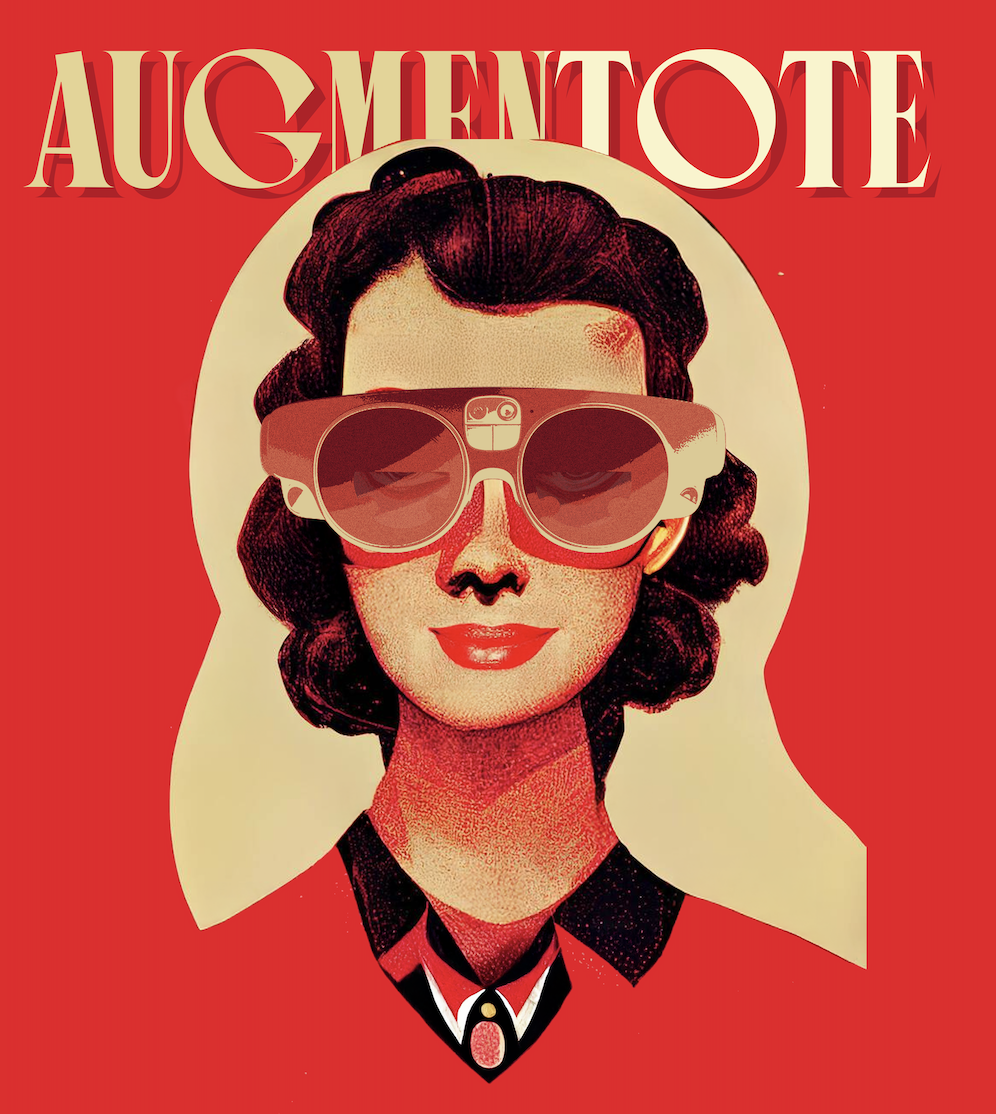
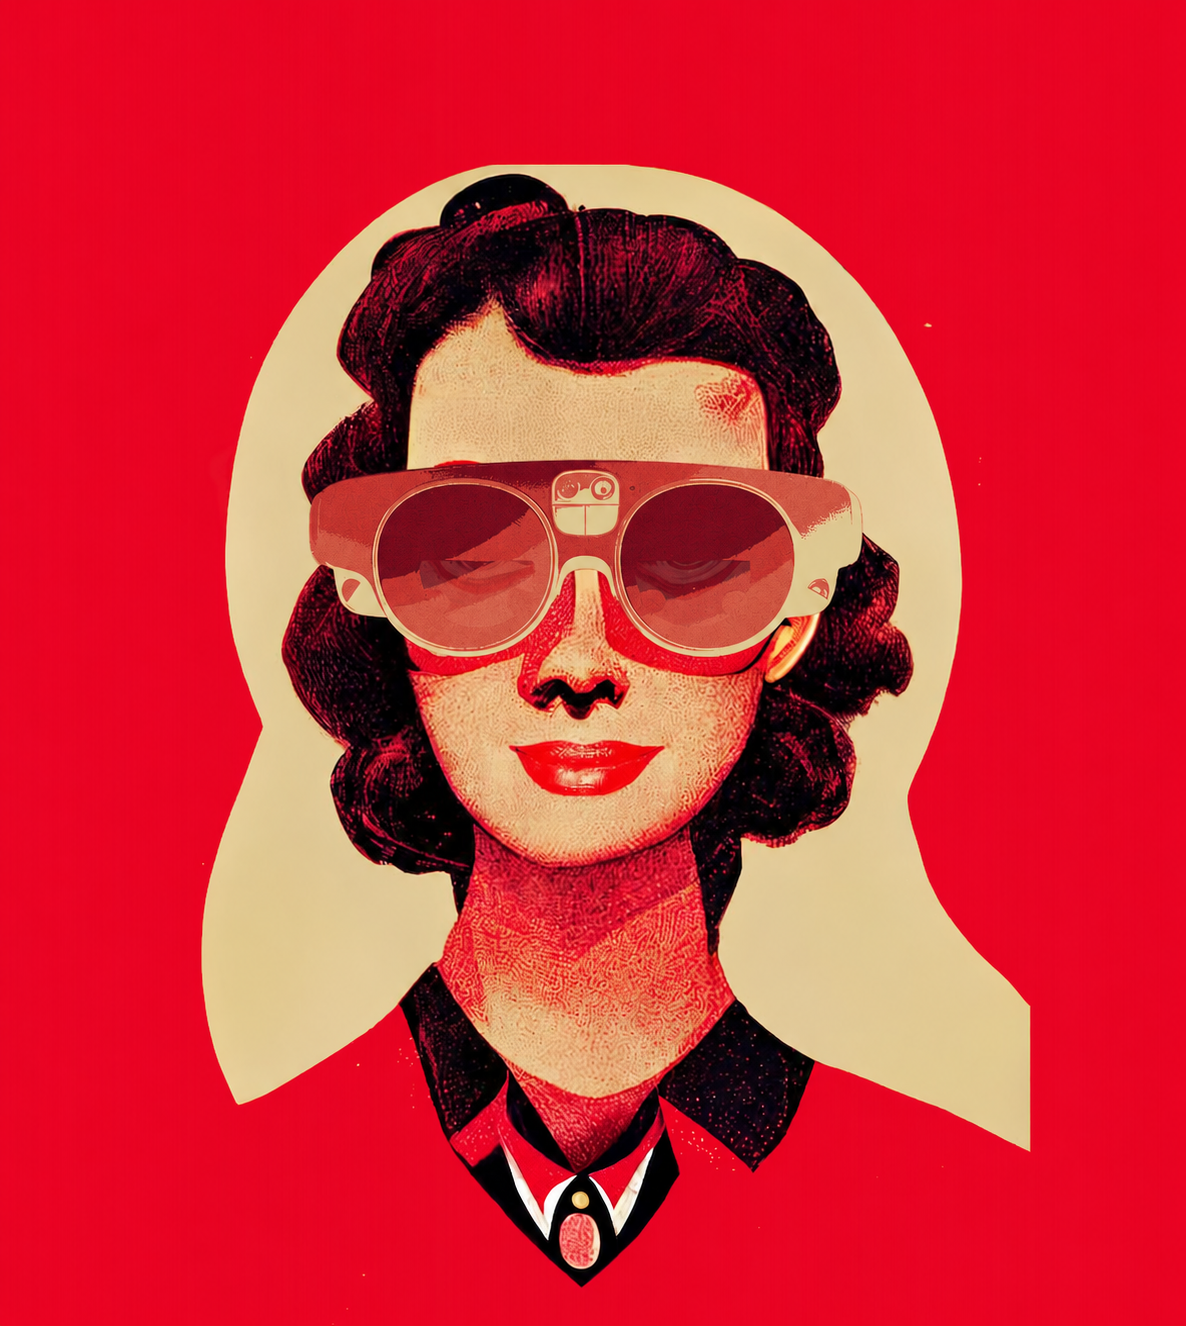
h

diff --git a/augmenTote.html b/augmenTote.html
@@ -228,14 +228,12 @@
           support flow.</p>
       </div>
 
-      <img class="project-feature-image" data-no-figure-caption
-        src="Images/AugmenTote/Midreview%20Presentation-images-36.jpg" alt="AugmenTote presentation image 37">
-      <img class="project-feature-image" data-no-figure-caption
-        src="Images/AugmenTote/Midreview%20Presentation-images-37.jpg" alt="AugmenTote presentation image 38">
-      <img class="project-feature-image" data-no-figure-caption
-        src="Images/AugmenTote/Midreview%20Presentation-images-38.jpg" alt="AugmenTote presentation image 39">
-      <img class="project-feature-image" data-no-figure-caption
-        src="Images/AugmenTote/Midreview%20Presentation-images-39.jpg" alt="AugmenTote presentation image 40">
+      <img class="project-feature-image" src="Images/AugmenTote/Midreview%20Presentation-images-36.jpg"
+        alt="PeccAI Capture"><br><BR>
+      <img class="project-feature-image" src="Images/AugmenTote/Midreview%20Presentation-images-38.jpg"
+        alt="PEccAI workflow breakdown">br><BR>
+      <img class="project-feature-image" src="Images/AugmenTote/Midreview%20Presentation-images-39.jpg"
+        alt="Help view journey example">
 
     </section>
 
@@ -248,8 +246,8 @@
       <p>The proposal considers health, social interaction, entertainment, and visible progress as part of the work
         experience—not as separate systems layered on top of it.</p>
 
-      <img class="project-feature-image" 
-        src="Images/AugmenTote/Midreview%20Presentation-images-44.jpg" alt="Feedback farmed from the truth fountain of Reddit">
+      <img class="project-feature-image" src="Images/AugmenTote/Midreview%20Presentation-images-44.jpg"
+        alt="Feedback farmed from the truth fountain of Reddit">
       <img class="project-feature-image" data-no-figure-caption
         src="Images/AugmenTote/Midreview%20Presentation-images-45.jpg" alt="AugmenTote presentation image 46">
 
@@ -300,51 +298,79 @@
       <img class="project-feature-image" data-no-figure-caption
         src="Images/AugmenTote/Midreview%20Presentation-images-58.jpg" alt="AugmenTote presentation image 59">
 
-      </section>
+    </section>
 
-     
+
 
     </section>
     <div class="project-section-band">
       <p class="project-kicker">Results</p>
       <h2>VALIDATION STUDY</h2>
     </div>
-    <h3>Procedure</h3>
-    <p>Direct wellness features include visible progress, music, hydration prompts, and scheduled stretch or rest
-      suggestions. Associate feedback in the study specifically called for short recurring stretch breaks during
-      long standing shifts.</p>
-    <br><Br>
-    <h3>Results</h3>
-    <p>Direct wellness features include visible progress, music, hydration prompts, and scheduled stretch or rest
-      suggestions. Associate feedback in the study specifically called for short recurring stretch breaks during
-      long standing shifts.</p>
+    <section class="project-copy-section">
+      <h3>Procedure</h3>
+      <p>The study used an A/B testing format to compare a stationary screen-based workflow with an augmented-reality
+        workflow. Seven participants completed the same task in both conditions: identify and pick an item, determine
+        its destination, and place it in the correct rebin-wall slot. In the screen condition, participants had to
+        interpret and remember information displayed away from the rebin wall. In the AR condition, spatial arrows and
+        destination indicators guided them toward the correct slot within their field of view.<br><BR>
+
+        The study recorded completion times, placement errors, participant movement, and qualitative feedback. Errors
+        such as approaching the wrong side of the wall or selecting the wrong slot were documented because they extended
+        task time. XSens motion tracking and kinematic data were also collected to compare physical movement between
+        conditions. After testing, participants discussed each interface’s clarity, difficulty, cognitive demands, and
+        comfort, as well as potential improvements to the visual guidance and Magic Leap headset.
+      </p>
+      <br><Br>
+      <h3>Results</h3>
+      <p>As shown in the figure below, performance varied between participants and was affected by errors such as moving
+        toward
+        the wrong side of the wall or selecting the wrong slot. Overall, however, participants consistently described
+        the AR condition as easier to follow and less mentally demanding. The spatial arrow and large destination
+        indicator reduced the need to remember directions, count rows, or repeatedly reference a separate
+        screen.<br><Br>
+
+        Participant feedback also identified opportunities for refinement. Several participants wanted directional
+        information earlier so they could anticipate where to turn, while others suggested smoother arrows, color
+        changes, haptic feedback, and a hybrid approach combining screen and AR guidance. Although the Magic Leap was
+        generally considered engaging and effective, its weight, brightness, limited peripheral vision, and
+        compatibility with glasses affected comfort. These findings suggest that mixed reality can improve clarity,
+        efficiency, and confidence during the pick workflow, but its guidance must remain timely, visually simple, and
+        physically comfortable.</p>
+    </section>
     <img class="project-feature-image" src="Images/AugmenTote/pick duration by hand.png"
       alt="Violin Chart Demonstrating a comparison of the conditions based on time it took to pick the item and place it in the rebin wall slot">
-    
-       <section class="project-feedback-section" aria-labelledby="participantFeedbackHeading">
 
-        <h3>Participant feedback</h3>
-      
-        <div class="project-feedback-carousel" data-feedback-carousel aria-roledescription="carousel" aria-label="Participant feedback">
-          <div class="project-feedback-viewport">
+    <section class="project-feedback-section" aria-labelledby="participantFeedbackHeading">
+
+      <h3>Participant feedback</h3>
+
+      <div class="project-feedback-carousel" data-feedback-carousel aria-roledescription="carousel"
+        aria-label="Participant feedback">
+        <div class="project-feedback-viewport">
           <article class="project-feedback-slide is-active" data-feedback-slide aria-hidden="false">
             <h4>Participant 1</h4>
             <dl class="project-feedback-grid">
               <div class="project-feedback-response">
                 <dt>Thoughts on Screen Simulate Mode</dt>
-                <dd>It was hard to locate the ending position on the rebin wall using the screen; I had to count and put in extra effort to figure out the destination. It did not feel intuitive.</dd>
+                <dd>It was hard to locate the ending position on the rebin wall using the screen; I had to count and put
+                  in extra effort to figure out the destination. It did not feel intuitive.</dd>
               </div>
               <div class="project-feedback-response">
                 <dt>Thoughts on Augmented Reality Mode</dt>
-                <dd>The second AR version is perfect. The arrow occasionally points right or left, and the indicator showed both size and shape. It was much easier with the arrow and not frustrating.</dd>
+                <dd>The second AR version is perfect. The arrow occasionally points right or left, and the indicator
+                  showed both size and shape. It was much easier with the arrow and not frustrating.</dd>
               </div>
               <div class="project-feedback-response">
                 <dt>Suggestions</dt>
-                <dd>I prefer using the screen because of neck issues and not wanting to look down. I would prefer stationary setups. Fun wrist-mounted elements and physical buttons would help for work tasks, along with speech recognition.</dd>
+                <dd>I prefer using the screen because of neck issues and not wanting to look down. I would prefer
+                  stationary setups. Fun wrist-mounted elements and physical buttons would help for work tasks, along
+                  with speech recognition.</dd>
               </div>
               <div class="project-feedback-response">
                 <dt>Thoughts and feelings about the Magic Leap</dt>
-                <dd>A bit heavy, because none of the lenses were strong enough, so the headset was worn over the glasses.</dd>
+                <dd>A bit heavy, because none of the lenses were strong enough, so the headset was worn over the
+                  glasses.</dd>
               </div>
             </dl>
           </article>
@@ -371,35 +397,41 @@
           </article>
           <article class="project-feedback-slide" data-feedback-slide aria-hidden="true" hidden>
             <h4>Participant 3</h34>
-            <dl class="project-feedback-grid">
-              <div class="project-feedback-response">
-                <dt>Thoughts on Screen Simulate Mode</dt>
-                <dd>It was very difficult to remember the screen position, especially keeping track of left/right and counting rows. Turning around made it confusing to understand direction, so I moved more.</dd>
-              </div>
-              <div class="project-feedback-response">
-                <dt>Thoughts on Augmented Reality Mode</dt>
-                <dd>AR made it much easier; I didn’t need to think or remember location. There was less movement and it felt more satisfying.</dd>
-              </div>
-              <div class="project-feedback-response">
-                <dt>Suggestions</dt>
-                <dd>Sometimes the arrow passes through me. It would be better if the arrow only appears once the item is picked up and is placed directly in front of me so I know when to turn left or right. A combination of cues would be ideal.</dd>
-              </div>
-              <div class="project-feedback-response">
-                <dt>Thoughts and feelings about the Magic Leap</dt>
-                <dd>—</dd>
-              </div>
-            </dl>
+              <dl class="project-feedback-grid">
+                <div class="project-feedback-response">
+                  <dt>Thoughts on Screen Simulate Mode</dt>
+                  <dd>It was very difficult to remember the screen position, especially keeping track of left/right and
+                    counting rows. Turning around made it confusing to understand direction, so I moved more.</dd>
+                </div>
+                <div class="project-feedback-response">
+                  <dt>Thoughts on Augmented Reality Mode</dt>
+                  <dd>AR made it much easier; I didn’t need to think or remember location. There was less movement and
+                    it felt more satisfying.</dd>
+                </div>
+                <div class="project-feedback-response">
+                  <dt>Suggestions</dt>
+                  <dd>Sometimes the arrow passes through me. It would be better if the arrow only appears once the item
+                    is picked up and is placed directly in front of me so I know when to turn left or right. A
+                    combination of cues would be ideal.</dd>
+                </div>
+                <div class="project-feedback-response">
+                  <dt>Thoughts and feelings about the Magic Leap</dt>
+                  <dd>—</dd>
+                </div>
+              </dl>
           </article>
           <article class="project-feedback-slide" data-feedback-slide aria-hidden="true" hidden>
             <h4>Participant 4</h4>
             <dl class="project-feedback-grid">
               <div class="project-feedback-response">
                 <dt>Thoughts on Screen Simulate Mode</dt>
-                <dd>It took slightly longer to understand which direction to head toward on the screen, but the user experience improved as I learned it.</dd>
+                <dd>It took slightly longer to understand which direction to head toward on the screen, but the user
+                  experience improved as I learned it.</dd>
               </div>
               <div class="project-feedback-response">
                 <dt>Thoughts on Augmented Reality Mode</dt>
-                <dd>The AR guidance was really good and much clearer. It significantly boosted productivity and felt more efficient.</dd>
+                <dd>The AR guidance was really good and much clearer. It significantly boosted productivity and felt
+                  more efficient.</dd>
               </div>
               <div class="project-feedback-response">
                 <dt>Suggestions</dt>
@@ -416,19 +448,24 @@
             <dl class="project-feedback-grid">
               <div class="project-feedback-response">
                 <dt>Thoughts on Screen Simulate Mode</dt>
-                <dd>At the beginning it was hard to figure out my position, but after some time I created a personal convention on the UI screen to determine where to go.</dd>
+                <dd>At the beginning it was hard to figure out my position, but after some time I created a personal
+                  convention on the UI screen to determine where to go.</dd>
               </div>
               <div class="project-feedback-response">
                 <dt>Thoughts on Augmented Reality Mode</dt>
-                <dd>AR was faster even though I completed AR first. I was still getting used to it, so there may have been a slight learning advantage on the screen. AR required less cognitive load and reduced wasted movement.</dd>
+                <dd>AR was faster even though I completed AR first. I was still getting used to it, so there may have
+                  been a slight learning advantage on the screen. AR required less cognitive load and reduced wasted
+                  movement.</dd>
               </div>
               <div class="project-feedback-response">
                 <dt>Suggestions</dt>
-                <dd>The arrow could gradually move closer to the tote, even during the scanning phase, so I can anticipate where to turn before the larger arrow appears.</dd>
+                <dd>The arrow could gradually move closer to the tote, even during the scanning phase, so I can
+                  anticipate where to turn before the larger arrow appears.</dd>
               </div>
               <div class="project-feedback-response">
                 <dt>Thoughts and feelings about the Magic Leap</dt>
-                <dd>Peripheral vision was limited, making it hard to locate myself on the rebin wall. The glasses felt heavy.</dd>
+                <dd>Peripheral vision was limited, making it hard to locate myself on the rebin wall. The glasses felt
+                  heavy.</dd>
               </div>
             </dl>
           </article>
@@ -437,7 +474,8 @@
             <dl class="project-feedback-grid">
               <div class="project-feedback-response">
                 <dt>Thoughts on Screen Simulate Mode</dt>
-                <dd>I liked the screen display more because it was out of the way and easier to read. I had to adjust to the rebin layout, but thicker walls made it easier to know where things were.</dd>
+                <dd>I liked the screen display more because it was out of the way and easier to read. I had to adjust to
+                  the rebin layout, but thicker walls made it easier to know where things were.</dd>
               </div>
               <div class="project-feedback-response">
                 <dt>Thoughts on Augmented Reality Mode</dt>
@@ -458,15 +496,21 @@
             <dl class="project-feedback-grid">
               <div class="project-feedback-response">
                 <dt>Thoughts on Screen Simulate Mode</dt>
-                <dd>It was acceptable; after a few repetitions I could see where items were on the rebin wall and began remembering slot locations. It became easier to coordinate physically.</dd>
+                <dd>It was acceptable; after a few repetitions I could see where items were on the rebin wall and began
+                  remembering slot locations. It became easier to coordinate physically.</dd>
               </div>
               <div class="project-feedback-response">
                 <dt>Thoughts on Augmented Reality Mode</dt>
-                <dd>AR made it very clear where to place the item, but it did not show me where to move beforehand, so I couldn’t anticipate movement. Sometimes the path felt suboptimal, especially when the target was behind me. It was unclear whether the target was above or below on the wall; I wanted that information before turning.</dd>
+                <dd>AR made it very clear where to place the item, but it did not show me where to move beforehand, so I
+                  couldn’t anticipate movement. Sometimes the path felt suboptimal, especially when the target was
+                  behind me. It was unclear whether the target was above or below on the wall; I wanted that information
+                  before turning.</dd>
               </div>
               <div class="project-feedback-response">
                 <dt>Suggestions</dt>
-                <dd>I don’t always need the arrow, but I do like the large indicator on the rebin wall. If the arrow animation is smooth, it will be more useful. I only need directional information (left/right/up/down), and once I arrive at the location, placement becomes easy.</dd>
+                <dd>I don’t always need the arrow, but I do like the large indicator on the rebin wall. If the arrow
+                  animation is smooth, it will be more useful. I only need directional information (left/right/up/down),
+                  and once I arrive at the location, placement becomes easy.</dd>
               </div>
               <div class="project-feedback-response">
                 <dt>Thoughts and feelings about the Magic Leap</dt>
@@ -474,24 +518,33 @@
               </div>
             </dl>
           </article>
-          </div>
-          <div class="project-feedback-controls">
-            <button type="button" class="project-feedback-arrow" data-feedback-prev aria-label="Show previous participant">←</button>
-            <div class="project-feedback-dots" aria-label="Choose participant">
-            <button type="button" class="project-feedback-dot is-active" data-feedback-dot="0" aria-label="Show participant 1" aria-pressed="true"></button>
-            <button type="button" class="project-feedback-dot" data-feedback-dot="1" aria-label="Show participant 2" aria-pressed="false"></button>
-            <button type="button" class="project-feedback-dot" data-feedback-dot="2" aria-label="Show participant 3" aria-pressed="false"></button>
-            <button type="button" class="project-feedback-dot" data-feedback-dot="3" aria-label="Show participant 4" aria-pressed="false"></button>
-            <button type="button" class="project-feedback-dot" data-feedback-dot="4" aria-label="Show participant 5" aria-pressed="false"></button>
-            <button type="button" class="project-feedback-dot" data-feedback-dot="5" aria-label="Show participant 6" aria-pressed="false"></button>
-            <button type="button" class="project-feedback-dot" data-feedback-dot="6" aria-label="Show participant 7" aria-pressed="false"></button>
-            </div>
-            <p class="project-feedback-status" data-feedback-status aria-live="polite">Participant 1 of 7</p>
-            <button type="button" class="project-feedback-arrow" data-feedback-next aria-label="Show next participant">→</button>
-          </div>
         </div>
-      </section>
-    
+        <div class="project-feedback-controls">
+          <button type="button" class="project-feedback-arrow" data-feedback-prev
+            aria-label="Show previous participant">←</button>
+          <div class="project-feedback-dots" aria-label="Choose participant">
+            <button type="button" class="project-feedback-dot is-active" data-feedback-dot="0"
+              aria-label="Show participant 1" aria-pressed="true"></button>
+            <button type="button" class="project-feedback-dot" data-feedback-dot="1" aria-label="Show participant 2"
+              aria-pressed="false"></button>
+            <button type="button" class="project-feedback-dot" data-feedback-dot="2" aria-label="Show participant 3"
+              aria-pressed="false"></button>
+            <button type="button" class="project-feedback-dot" data-feedback-dot="3" aria-label="Show participant 4"
+              aria-pressed="false"></button>
+            <button type="button" class="project-feedback-dot" data-feedback-dot="4" aria-label="Show participant 5"
+              aria-pressed="false"></button>
+            <button type="button" class="project-feedback-dot" data-feedback-dot="5" aria-label="Show participant 6"
+              aria-pressed="false"></button>
+            <button type="button" class="project-feedback-dot" data-feedback-dot="6" aria-label="Show participant 7"
+              aria-pressed="false"></button>
+          </div>
+          <p class="project-feedback-status" data-feedback-status aria-live="polite">Participant 1 of 7</p>
+          <button type="button" class="project-feedback-arrow" data-feedback-next
+            aria-label="Show next participant">→</button>
+        </div>
+      </div>
+    </section>
+
     </div>
   </main>
   <div id="footer"></div>

diff --git a/footer.html b/footer.html
@@ -1,3 +1,29 @@
 <footer class="site-footer">
   <p>© 2026 by Tatiana Estrina</p>
+     <div class="header-inner">
+    <nav class="breadcrumb">
+      <a href="index.html" class="home-bubble">
+        <img src="Images/Navigation/house.png" alt="Home" />
+      </a>
+
+    </nav>
+    <div class="header-buttons">
+      <!-- <a href="https://www.instagram.com/mani__festations/" class="header-icon">
+        <img src="Images/Navigation/nails.png" alt="Nail art" />
+      </a> -->
+      <!--       <a href="ceramics-gallery.html" class="header-icon">
+        <img src="Images/Navigation/ceramics.png" alt="Ceramics" />
+      </a> -->
+      <a href="nail-gallery.html" class="header-icon">
+        <img src="Images/Navigation/nails.png" alt="Gallery" />
+      </a>
+      <a href="work.html" class="header-icon">
+        <img src="Images/Navigation/gallery.jpg" alt="Gallery" />
+      </a>
+      <a href="about.html" class="header-icon">
+        <img src="Images/Navigation/girlIcon.png" alt="About" />
+      </a>
+    </div>
+  </div>
+
 </footer>
